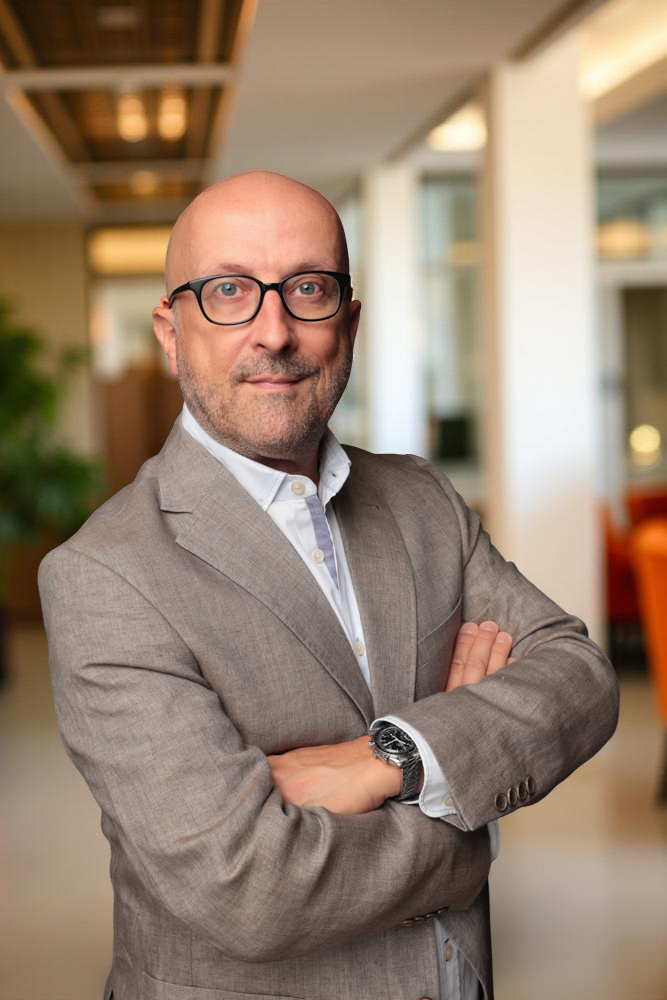
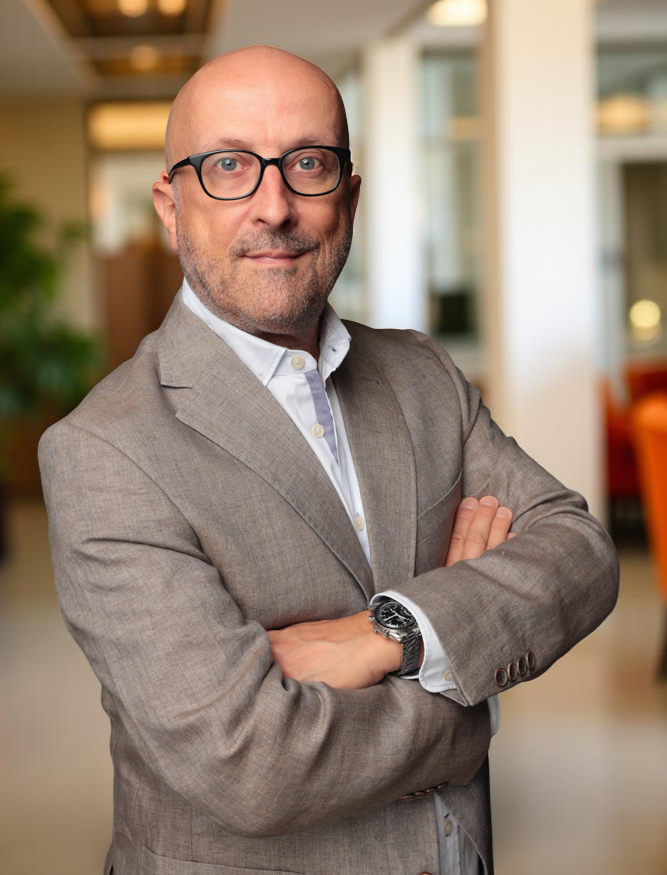
Team: hard-crop Frank photo 125px from top via Pillow, remove CSS hacks

diff --git a/team/index.html b/team/index.html
@@ -76,11 +76,8 @@
       width: 100%;
       aspect-ratio: 1041 / 1366;
       object-fit: cover;
-      object-position: center 18%;
+      object-position: center top;
       display: block;
-    }
-    .team-card__img--frank {
-      object-position: center 22%;
     }
 
     .team-card__body {
@@ -311,7 +308,7 @@
 
         <!-- Frank Rüdiger Euler -->
         <div class="team-card fade-up">
-          <img src="/assets/images/Eulerfra-Press-Bus_Office_250808.png" alt="Frank Rüdiger Euler" class="team-card__img team-card__img--frank">
+          <img src="/assets/images/Eulerfra-Press-Bus_Office_250808.png" alt="Frank Rüdiger Euler" class="team-card__img">
           <div class="team-card__body">
             <div class="team-card__name">Frank Rüdiger Euler</div>
             <div class="team-card__role">Partner</div>